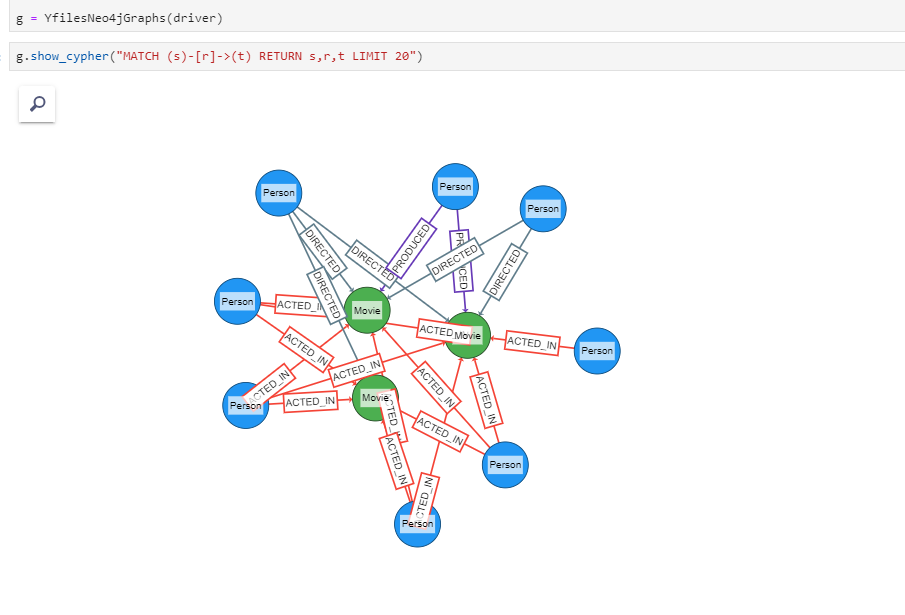
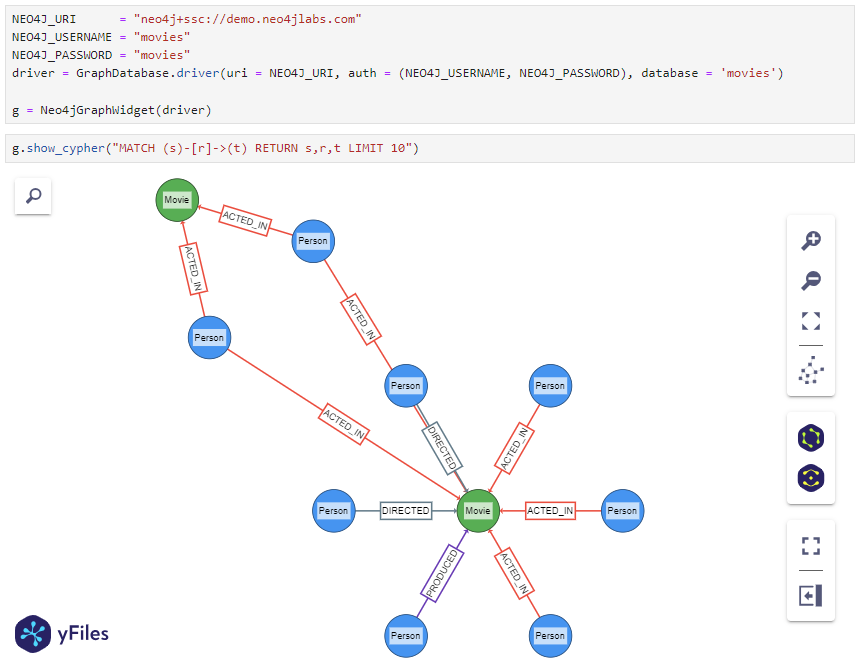
Update new class name in readme and screenshot

diff --git a/src/yfiles_jupyter_graphs_for_neo4j/Yfiles_Neo4j_Graphs.py b/src/yfiles_jupyter_graphs_for_neo4j/Yfiles_Neo4j_Graphs.py
@@ -1,6 +1,6 @@
 """Jupyter (ipy)widget powered by yFiles.
 
-The main YfilesNeo4jGraphs class is defined in this module.
+The main Neo4jGraphWidget class is defined in this module.
 
 """
 from yfiles_jupyter_graphs import GraphWidget

diff --git a/README.md b/README.md
@@ -1,4 +1,4 @@
-# yfiles_jupyter_graphs_for_neo4j
+# yFiles Jupyter Graphs for Neo4j
 ![A screenshot showing the yFiles graph widget for neo4j in a jupyter lab notebook](https://raw.githubusercontent.com/yWorks/yfiles-jupyter-graphs-for-neo4j/main/images/example.png)
 
 [![PyPI version](https://badge.fury.io/py/yfiles-jupyter-graphs-for-neo4j.svg)](https://badge.fury.io/py/yfiles-jupyter-graphs-for-neo4j)
@@ -19,7 +19,7 @@ or see [README_DEV.md](https://github.com/yWorks/yfiles-jupyter-graphs-for-neo4j
 ## Usage
 
 ```python
-from yfiles_jupyter_graphs_for_neo4j.Yfiles_Neo4j_Graphs import YfilesNeo4jGraphs
+from yfiles_jupyter_graphs_for_neo4j import Neo4jGraphWidget
 from neo4j import GraphDatabase
 
 NEO4J_URI      = "neo4j+ssc://demo.neo4jlabs.com" 
@@ -27,7 +27,7 @@ NEO4J_USERNAME = "movies"
 NEO4J_PASSWORD = "movies"
 driver = GraphDatabase.driver(uri = NEO4J_URI, auth = (NEO4J_USERNAME, NEO4J_PASSWORD), database = 'movies')
 
-g = YfilesNeo4jGraphs(driver)
+g = Neo4jGraphWidget(driver)
 
 g.show_cypher("MATCH (s)-[r]->(t) RETURN s,r,t LIMIT 20")
 ```
@@ -43,11 +43,11 @@ see [supported environments](https://github.com/yWorks/yfiles-jupyter-graphs/tre
 
 ## Documentation
 
-The main class `YfilesNeo4jGraphs` provides the following API:
+The main class `Neo4jGraphWidget` provides the following API:
 
 ### Constructor
 
-- `YfilesNeo4jGraphs`: Creates a new class instance with the following arguments
+- `Neo4jGraphWidget`: Creates a new class instance with the following arguments
 
 | Argument             | Description                                                                                                                                                                                                               | Default |
 |----------------------|---------------------------------------------------------------------------------------------------------------------------------------------------------------------------------------------------------------------------|---------|
